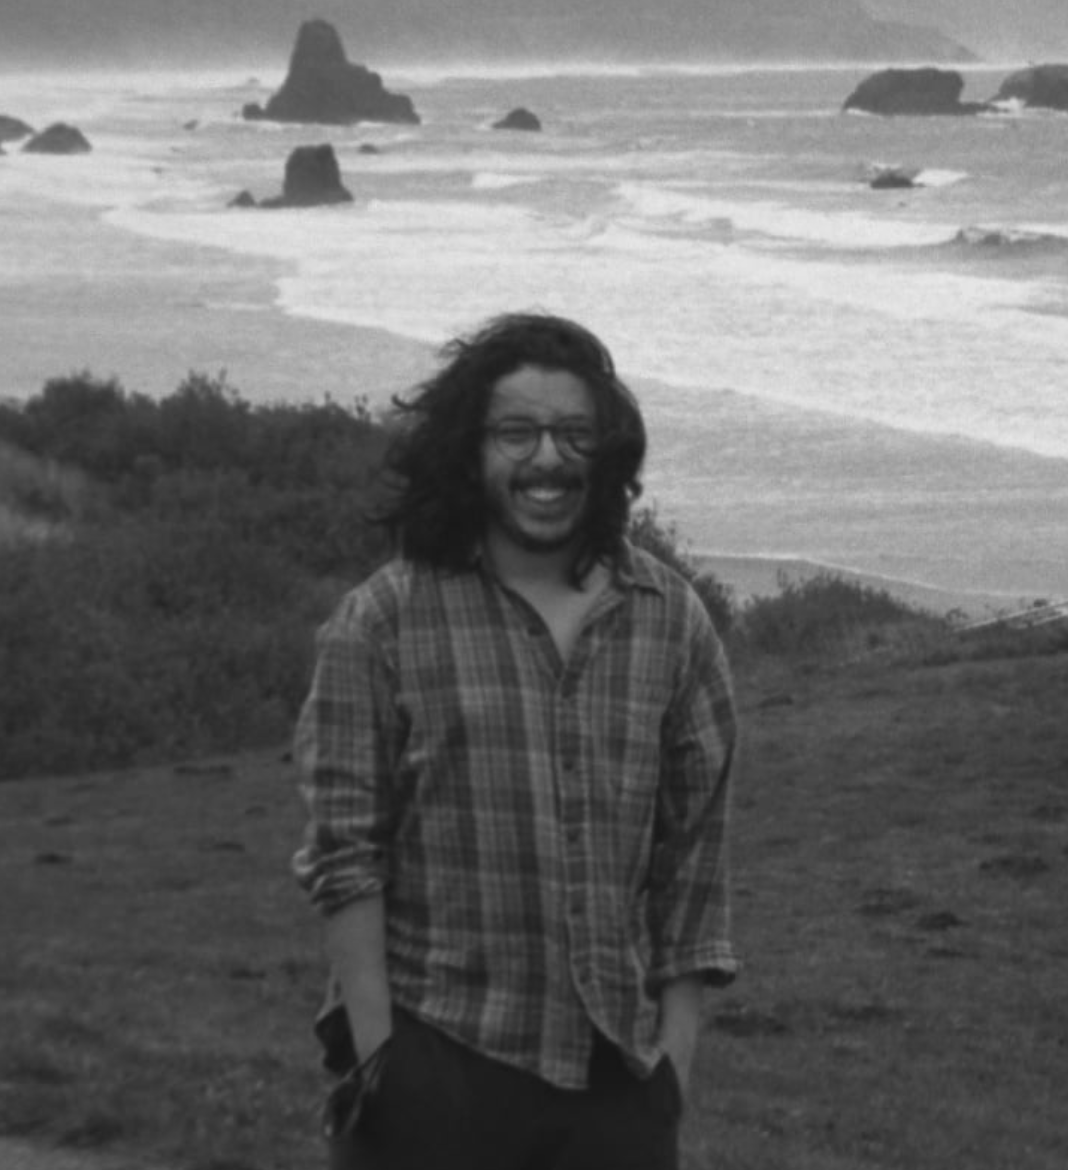
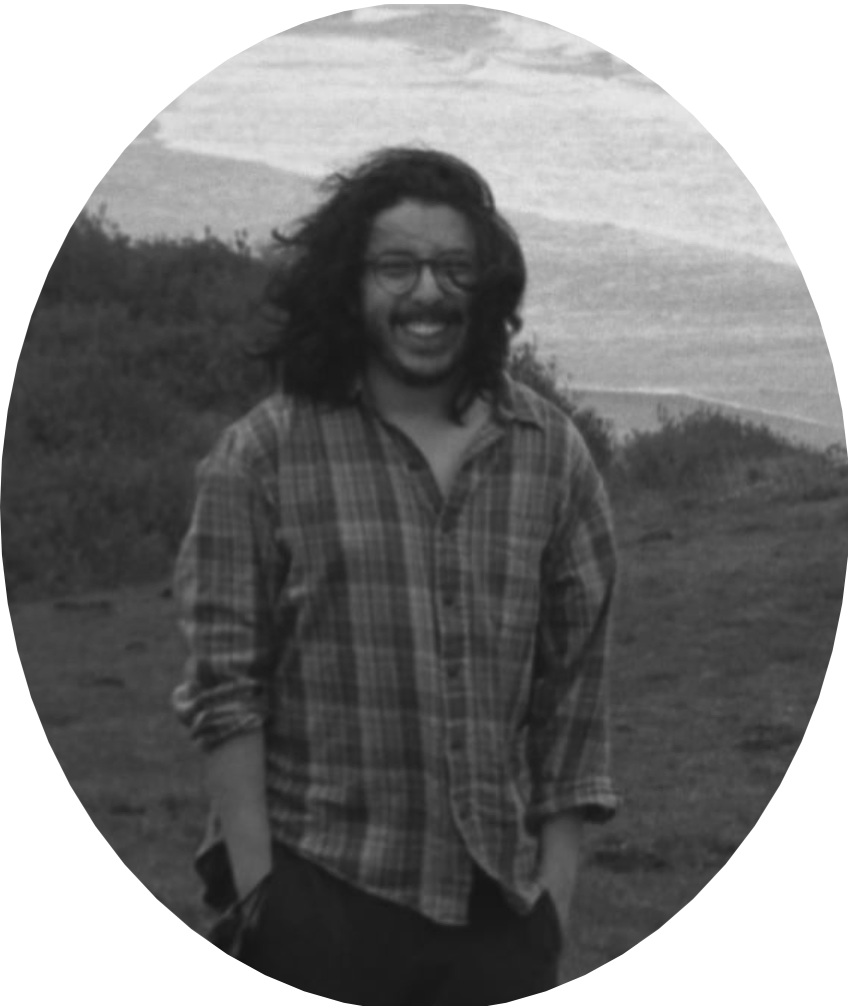
Aligning home page

diff --git a/themes/PaperMod/layouts/partials/home_info.html b/themes/PaperMod/layouts/partials/home_info.html
@@ -1,13 +1,13 @@
 {{- with $.Site.Params.homeInfoParams }}
+<div>
+    {{- if .imageUrl -}}
+    <img src="{{ .imageUrl | absURL }}" alt="{{ .imageTitle | default "profile image" }}"
+        height="{{ .imageHeight | default 400 }}" width="{{ .imageWidth | default 400 }}" style="float:right" />
+    {{- end }}
+</div>
 <article class="first-entry home-info">
     <header class="entry-header">
-        <h1>{{ .Title | markdownify }}</h1>
-        <div>
-            {{- if .imageUrl -}}
-            <img src="{{ .imageUrl | absURL }}" alt="{{ .imageTitle | default "profile image" }}"
-                height="{{ .imageHeight | default 150 }}" width="{{ .imageWidth | default 150 }}" />
-            {{- end }}
-        </div>
+        <h1>{{ .Title | markdownify }}</h1>       
     </header>
     <section class="entry-content">
         <p>{{ .Content | markdownify }}</p>
